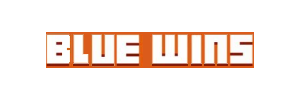
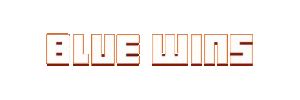
updated images in win_screen

Changed region(s): [[0.15, 0.3, 0.87, 0.69]]

diff --git a/main.py b/main.py
@@ -12,7 +12,7 @@ while not execution_finished:
     elif cnst.screen_position == 2:
         game(field_type1)
     elif cnst.screen_position == 4:
-        win_screen(1)
+        win_screen(0)
     else:
         execution_finished = True
 pygame.quit()

diff --git a/win_screen.py b/win_screen.py
@@ -30,7 +30,7 @@ def win_screen(which_ship):
         title.draw()
         button_to_menu.draw()
 
-        angle += 5
+        angle += 10
 
         clock.tick(cnst.FPS)
         for event in pygame.event.get():
